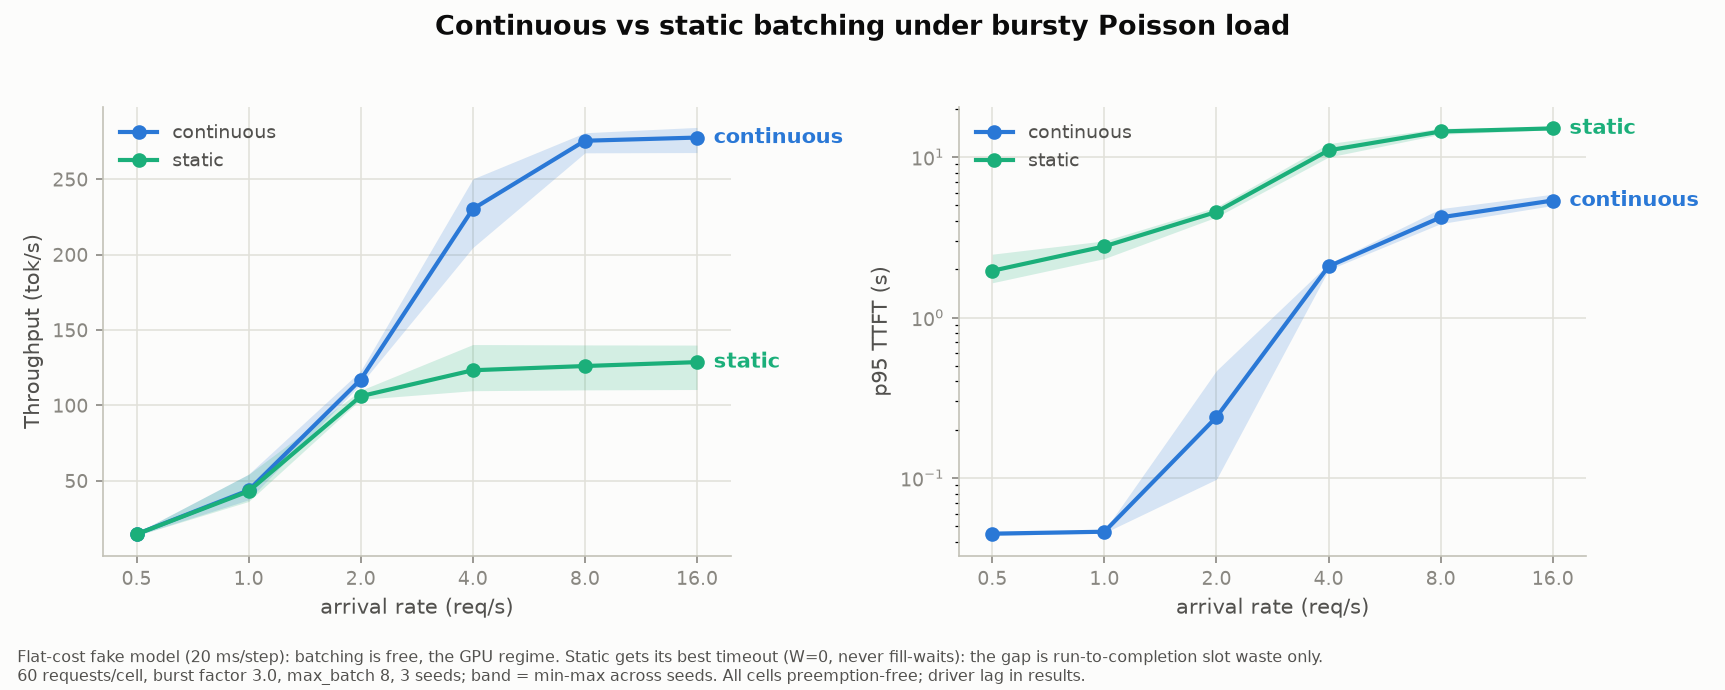
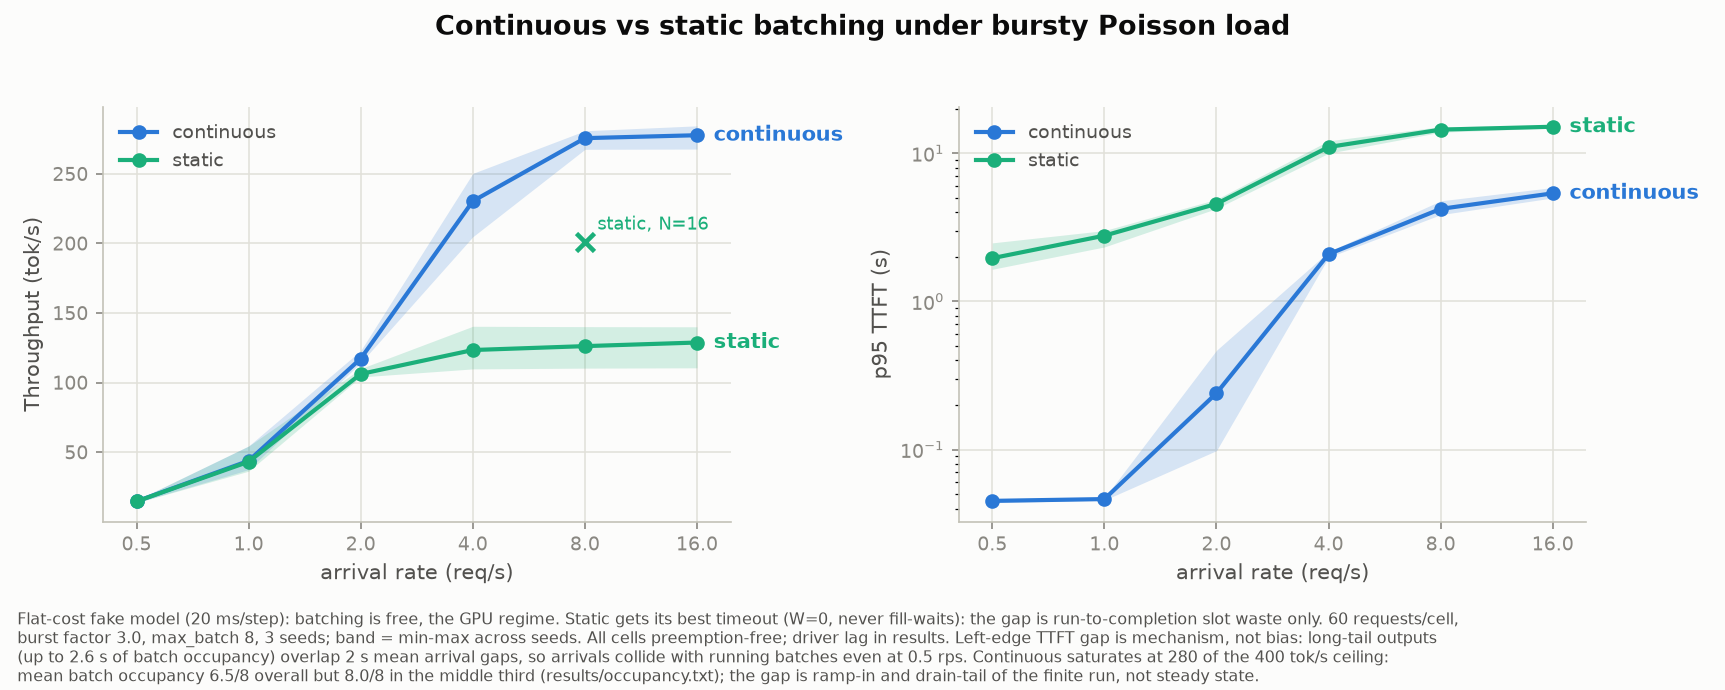
chart: n16 ceiling marker, left-edge and occupancy explanations in caption; register pressure result in decision record

diff --git a/miniserve/bench/plot.py b/miniserve/bench/plot.py
@@ -39,7 +39,9 @@ def main(argv=None) -> None:
     matplotlib.use("Agg")
     import matplotlib.pyplot as plt
 
-    rows = [r for r in load_rows(args.inp) if r["cell"] == "main"]
+    all_rows = load_rows(args.inp)
+    rows = [r for r in all_rows if r["cell"] == "main"]
+    n16 = [r for r in all_rows if r["cell"] == "n16"]
     bad = [r for r in rows if not r["valid_for_chart"]]
     if bad:
         raise SystemExit(
@@ -94,6 +96,21 @@ def main(argv=None) -> None:
             ax.spines[spine].set_color(BASELINE)
         ax.margins(x=0.06)
         ax.legend(frameon=False, labelcolor=INK_2, fontsize=9, loc="upper left")
+        # Ceiling-robustness marker: static at double max_batch. On the figure
+        # so the "just raise static's batch size" objection meets its answer
+        # where the eye is, not in a results file nobody opens.
+        if key == "throughput_tok_s" and n16:
+            n16_rate = n16[0]["rate_rps"]
+            n16_mean = sum(r[key] for r in n16) / len(n16)
+            ax.plot(
+                [n16_rate], [n16_mean], marker="x", markersize=9,
+                markeredgewidth=2.2, color=SERIES["static"], linestyle="none",
+            )
+            ax.annotate(
+                f"static, N={n16[0]['config']['max_batch']}",
+                (n16_rate, n16_mean), xytext=(6, 6),
+                textcoords="offset points", color=SERIES["static"], fontsize=8.5,
+            )
 
     fig.suptitle(
         "Continuous vs static batching under bursty Poisson load",
@@ -105,14 +122,20 @@ def main(argv=None) -> None:
         (
             f"Flat-cost fake model ({cfg['delay_s'] * 1000:.0f} ms/step): batching is "
             "free, the GPU regime. Static gets its best timeout (W=0, never "
-            "fill-waits): the gap is run-to-completion slot waste only.\n"
-            f"{cfg['n_requests']} requests/cell, burst factor "
+            "fill-waits): the gap is run-to-completion slot waste only. "
+            f"{cfg['n_requests']} requests/cell,\nburst factor "
             f"{cfg['burst_factor']}, max_batch {cfg['max_batch']}, 3 seeds; band = "
-            "min-max across seeds. All cells preemption-free; driver lag in results."
+            "min-max across seeds. All cells preemption-free; driver lag in results. "
+            "Left-edge TTFT gap is mechanism, not bias: long-tail outputs\n"
+            "(up to 2.6 s of batch occupancy) overlap 2 s mean arrival gaps, so "
+            "arrivals collide with running batches even at 0.5 rps. Continuous "
+            "saturates at 280 of the 400 tok/s ceiling:\nmean batch occupancy "
+            "6.5/8 overall but 8.0/8 in the middle third (results/occupancy.txt); "
+            "the gap is ramp-in and drain-tail of the finite run, not steady state."
         ),
         color=INK_2, fontsize=7.5, va="bottom",
     )
-    fig.tight_layout(rect=(0, 0.07, 1, 0.95))
+    fig.tight_layout(rect=(0, 0.12, 1, 0.95))
     out = pathlib.Path(args.out)
     out.parent.mkdir(parents=True, exist_ok=True)
     fig.savefig(out, dpi=150, facecolor=SURFACE)

diff --git a/docs/phase1-engine.md b/docs/phase1-engine.md
@@ -187,6 +187,13 @@ implementation; both are places a serving engineer will look first.
   framing = v1's hardcoded victim choice is the degenerate case of the Phase 3
   policy engine
 
+  Measured (mechanism sweep, pressure ablation): under the same memory
+  pressure, continuous batching preempts about three times as often as static
+  (43-45 vs 12-18 events per run) and still wins both metrics (140 vs 88
+  tok/s, p95 TTFT 9 s vs 18 s). The scheduler spends preemptions freely and
+  profits, which is the empirical case that abort-and-requeue was the right
+  v1 mechanism: cheap enough to use, not just correct enough to pass tests.
+
 - **Admission headroom.** Admission reserves `ceil(len(prompt)/block_size)`
   blocks — exactly the prompt, zero decode headroom. A prompt that fills its
   last block needs a new block on the first generated token, so at high